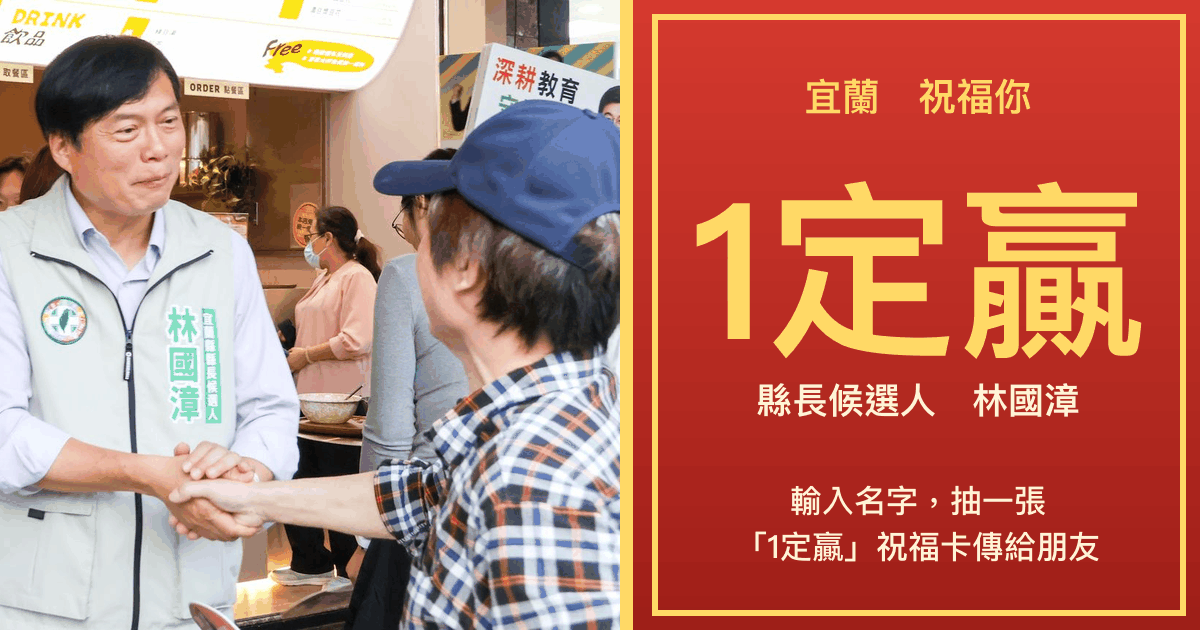
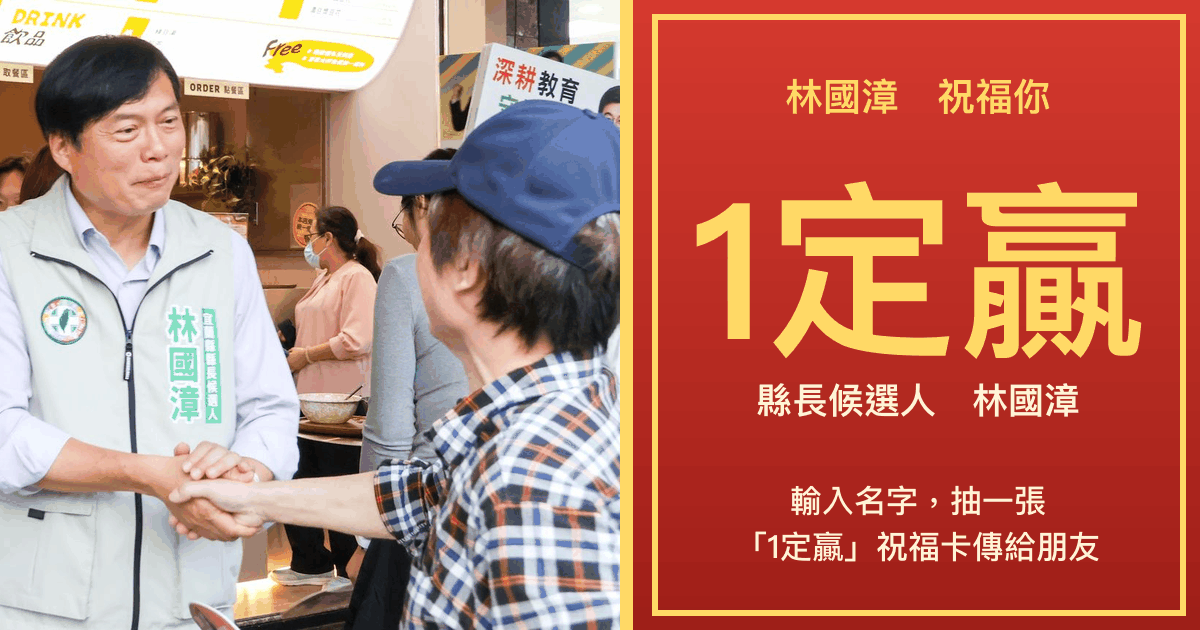
v48: bless card headline 林國漳 祝福 name, then blessing

Changed region(s): [[0.6475, 0.1206, 0.8942, 0.181]]

diff --git a/index.html b/index.html
@@ -2012,11 +2012,11 @@ function drawBlessCard(name,wish,img,fx){
   c.strokeStyle=GOLD;c.lineWidth=14;c.strokeRect(28,28,W-56,H-56);c.lineWidth=3;c.strokeRect(54,54,W-108,H-108);
   c.textBaseline='alphabetic';c.textAlign='center';
   c.font='90px '+CV_F;c.fillText('🏮',140,168);c.fillText('🏮',W-140,168);
-  c.fillStyle=GOLD;c.font='900 44px '+CV_F;c.fillText('宜蘭　祝福你',W/2,148);
-  var fs=img?58:200,nm=img?'給 '+name:name;
-  do{c.font='900 '+fs+'px '+CV_S;fs-=4}while(c.measureText(nm).width>W-200&&fs>44);
+  c.fillStyle=GOLD;c.font='900 64px '+CV_F;c.fillText('1定贏',W/2,162);
+  var hd='林國漳　祝福　'+name,fs=64;
+  while(fs>40){c.font='900 '+fs+'px '+CV_S;if(c.measureText(hd).width<=W-160)break;fs-=2}
   if(img){
-    var px=96,py=190,pw=W-192,ph=550,sw=img.naturalWidth,sh=img.naturalHeight,r=pw/ph,cw=sw,ch=sh;
+    var px=96,py=196,pw=W-192,ph=620,sw=img.naturalWidth,sh=img.naturalHeight,r=pw/ph,cw=sw,ch=sh;
     if(sw/sh>r)cw=sh*r;else ch=sw/r;
     var sx=Math.max(0,Math.min(sw-cw,sw*(fx==null?.5:fx)-cw/2)),sy=Math.max(0,Math.min(sh-ch,sh*.3-ch/2));
     c.save();rrect(c,px,py,pw,ph,26);c.clip();c.drawImage(img,sx,sy,cw,ch,px,py,pw,ph);c.restore();
@@ -2024,13 +2024,15 @@ function drawBlessCard(name,wish,img,fx){
     var cap='宜蘭縣長候選人　林國漳';c.font='800 32px '+CV_F;var cwid=c.measureText(cap).width+44;
     c.fillStyle='rgba(158,31,24,.9)';rrect(c,px+22,py+ph-72,cwid,50,25);c.fill();
     c.fillStyle=CR;c.textAlign='left';c.fillText(cap,px+44,py+ph-37);c.textAlign='center';
-    c.fillStyle=GOLD;c.font='900 '+fs+'px '+CV_S;c.fillText(nm,W/2,812);
-    c.font='900 172px '+CV_F;c.fillText('1定贏',W/2,1006);
-    c.fillStyle=CR;c.font='900 56px '+CV_S;c.fillText(cvFit(c,wish,W-200),W/2,1090);
+    c.fillStyle=GOLD;c.font='900 '+fs+'px '+CV_S;c.fillText(hd,W/2,904);
+    c.fillStyle=CR;c.font='900 60px '+CV_S;
+    var wl=cvWrap(c,wish,W-200,2),y0=wl.length>1?996:1050;
+    wl.forEach(function(s,i){c.fillText(s,W/2,y0+i*78)});
   }else{
-    c.fillStyle=CR;c.font='900 '+fs+'px '+CV_S;c.fillText(nm,W/2,560);
-    c.fillStyle=GOLD;c.font='900 290px '+CV_F;c.fillText('1定贏',W/2,860);
-    c.fillStyle=CR;c.font='900 64px '+CV_S;c.fillText(cvFit(c,wish,W-200),W/2,990);
+    c.fillStyle=GOLD;c.font='900 '+fs+'px '+CV_S;c.fillText(hd,W/2,420);
+    c.fillStyle=CR;c.font='900 72px '+CV_S;
+    cvWrap(c,wish,W-200,2).forEach(function(s,i){c.fillText(s,W/2,560+i*96)});
+    c.fillStyle=GOLD;c.font='900 300px '+CV_F;c.fillText('1定贏',W/2,980);
   }
   c.fillStyle=GOLD;c.fillRect(90,1128,W-180,4);
   c.font='900 52px '+CV_F;c.fillText(typeof SLOGAN==='string'&&SLOGAN?SLOGAN:'林國漳',W/2,1196);
@@ -2042,7 +2044,7 @@ function drawBlessCard(name,wish,img,fx){
 function blGen(nm,w){
   var k=bpPick('p',BP.length),wish=w||BL[bpPick('w',BL.length)];
   bpLoad(k,function(img){
-    openImg(drawBlessCard(nm,wish,img,BP[k][1]),nm+' 1定贏！'+wish+'｜林國漳政見地圖',blURL(),'林國漳-1定贏祝福卡.png','<button type="button" data-blagain>再抽一張</button>');
+    openImg(drawBlessCard(nm,wish,img,BP[k][1]),'林國漳祝福'+nm+'：'+wish+'｜林國漳政見地圖',blURL(),'林國漳-1定贏祝福卡.png','<button type="button" data-blagain>再抽一張</button>');
     var a=OV.querySelector('[data-blagain]');if(a)a.onclick=function(){blGen(nm,w)};
   });
 }
@@ -2104,7 +2106,7 @@ function drawWallCard(){
   return cv;
 }
 function openWallCard(){openImg(drawWallCard(),'林國漳政見重點數字｜林國漳政見地圖',SHARE_BASE||location.href.split('#')[0],'林國漳-重點數字.png')}
-var BUILD='10/28 第 47 版';
+var BUILD='10/28 第 48 版';
 (function(){var bp=document.querySelector('.brand p');if(bp)bp.insertAdjacentHTML('beforeend','<br><small style="opacity:.65">更新 '+BUILD+'</small>')})();
 var XL=false;try{XL=localStorage.getItem('xl')==='1'}catch(e){}
 if(/[?&]xl=1/.test(location.search))XL=true;
